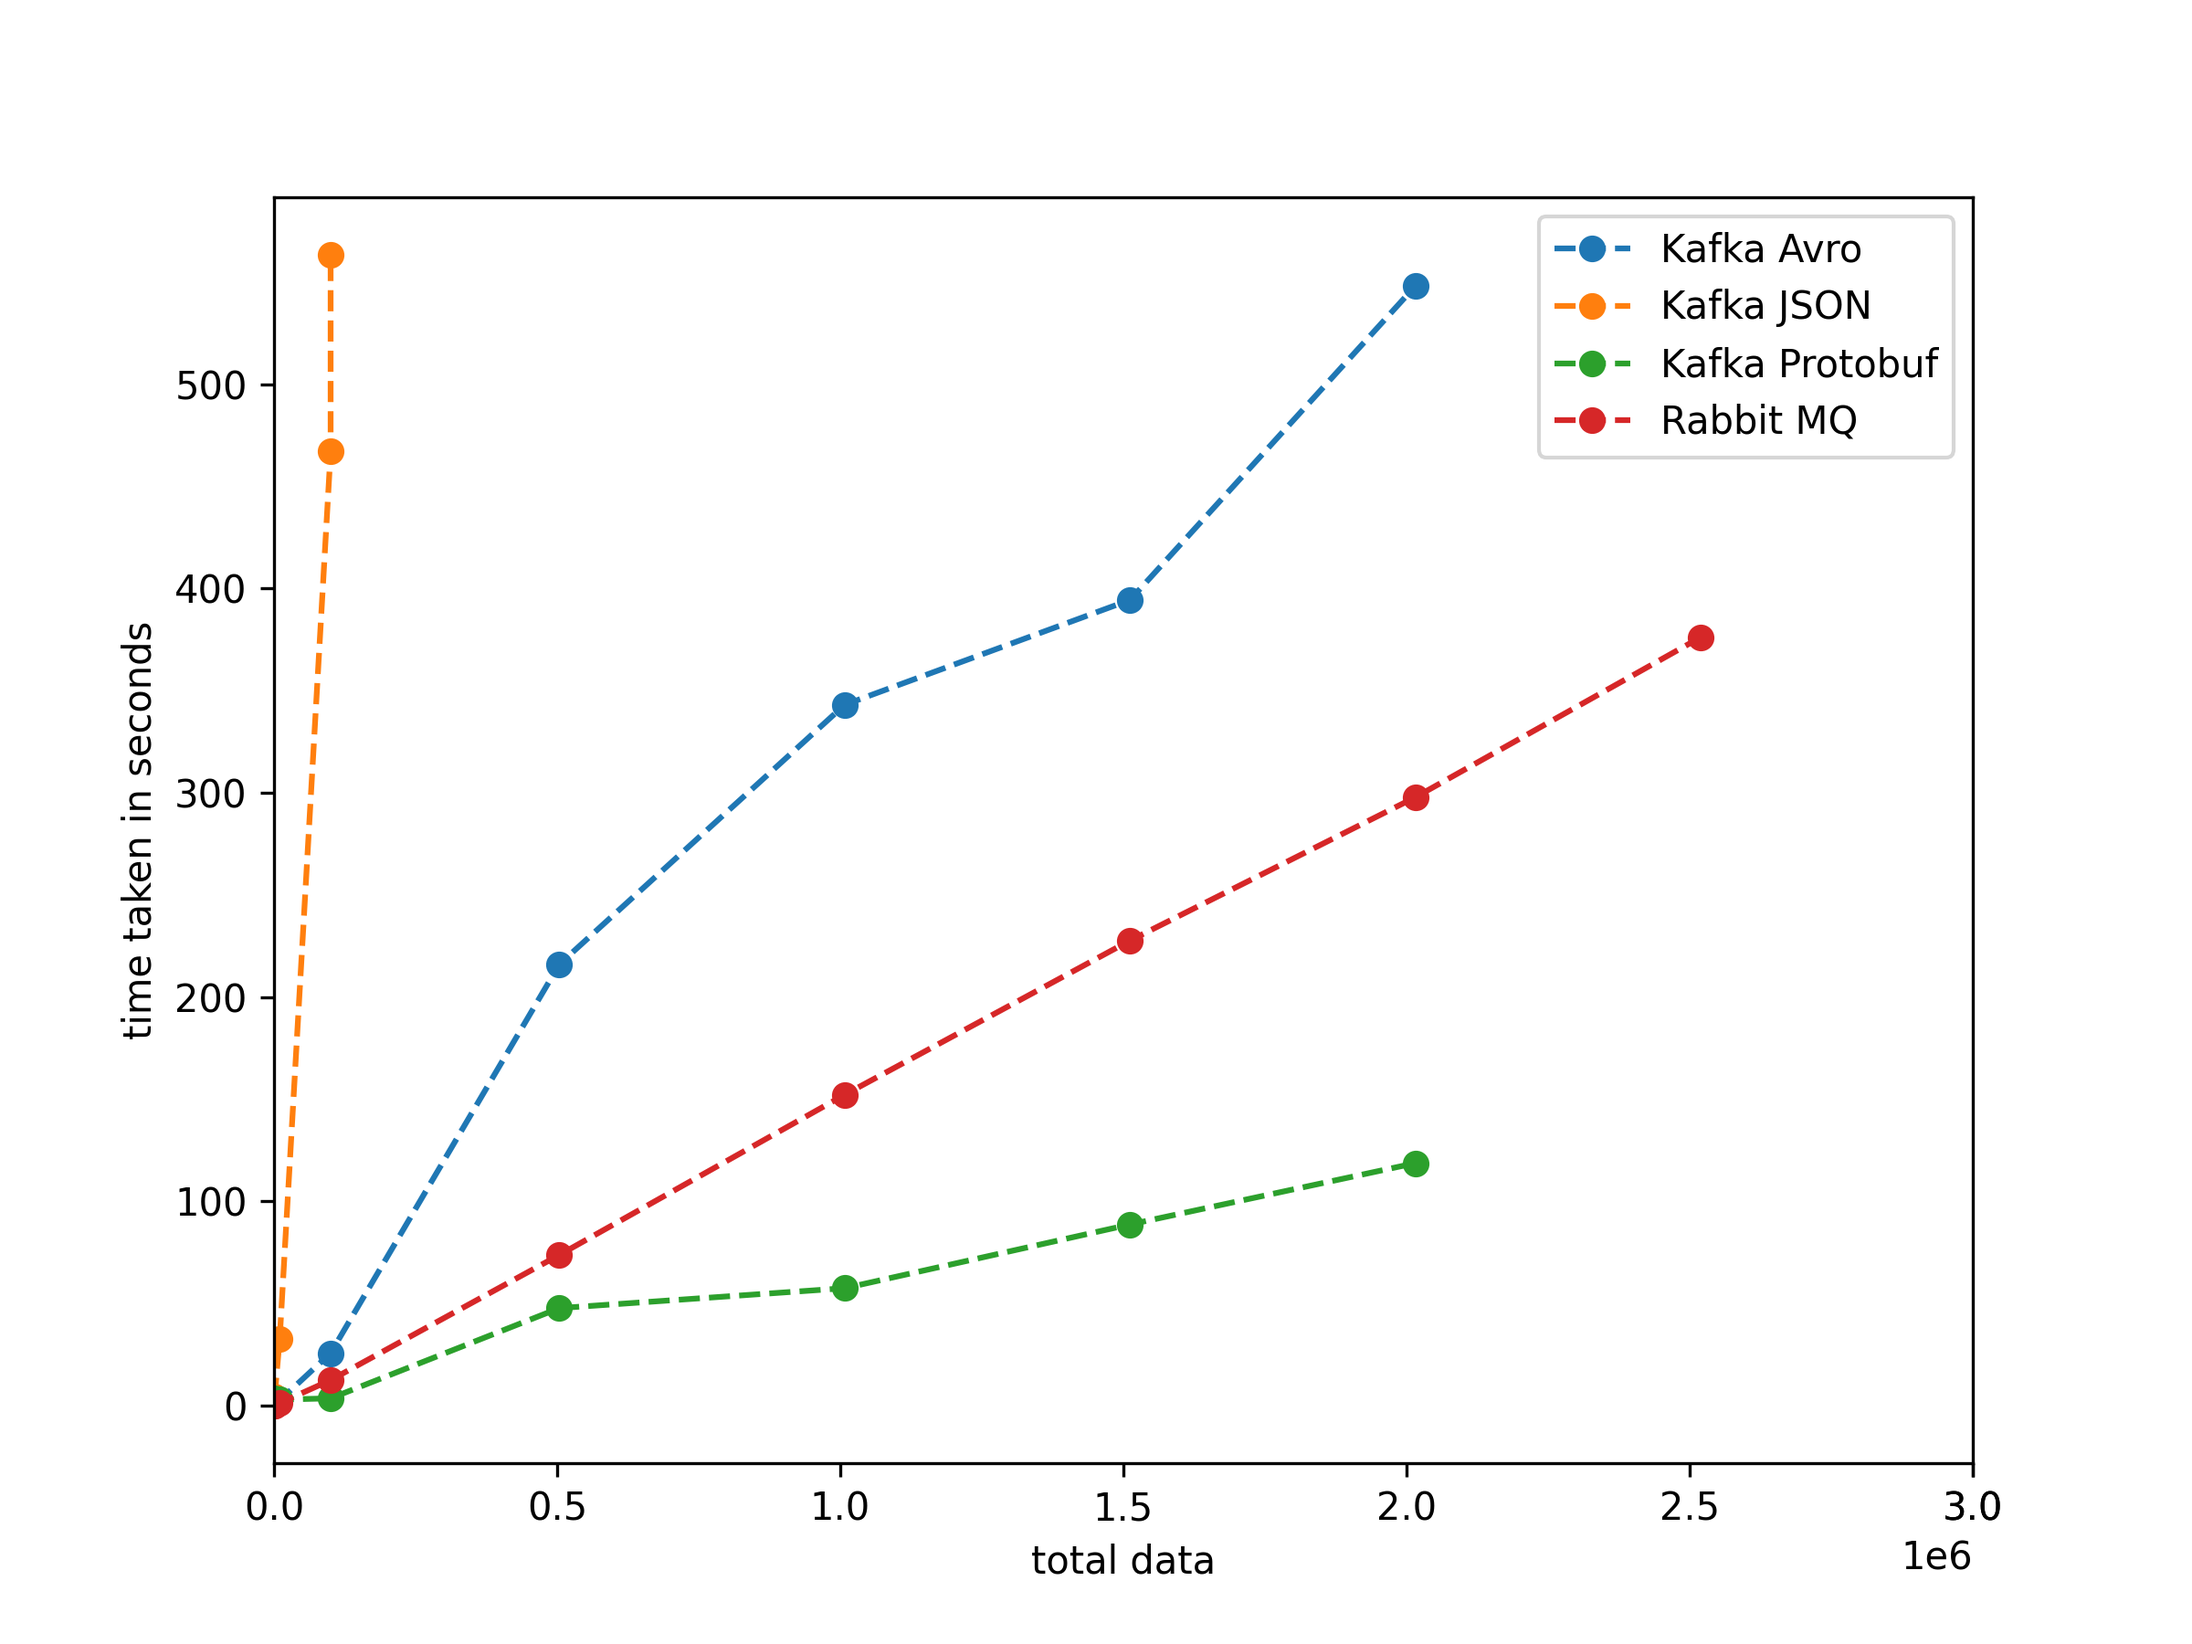
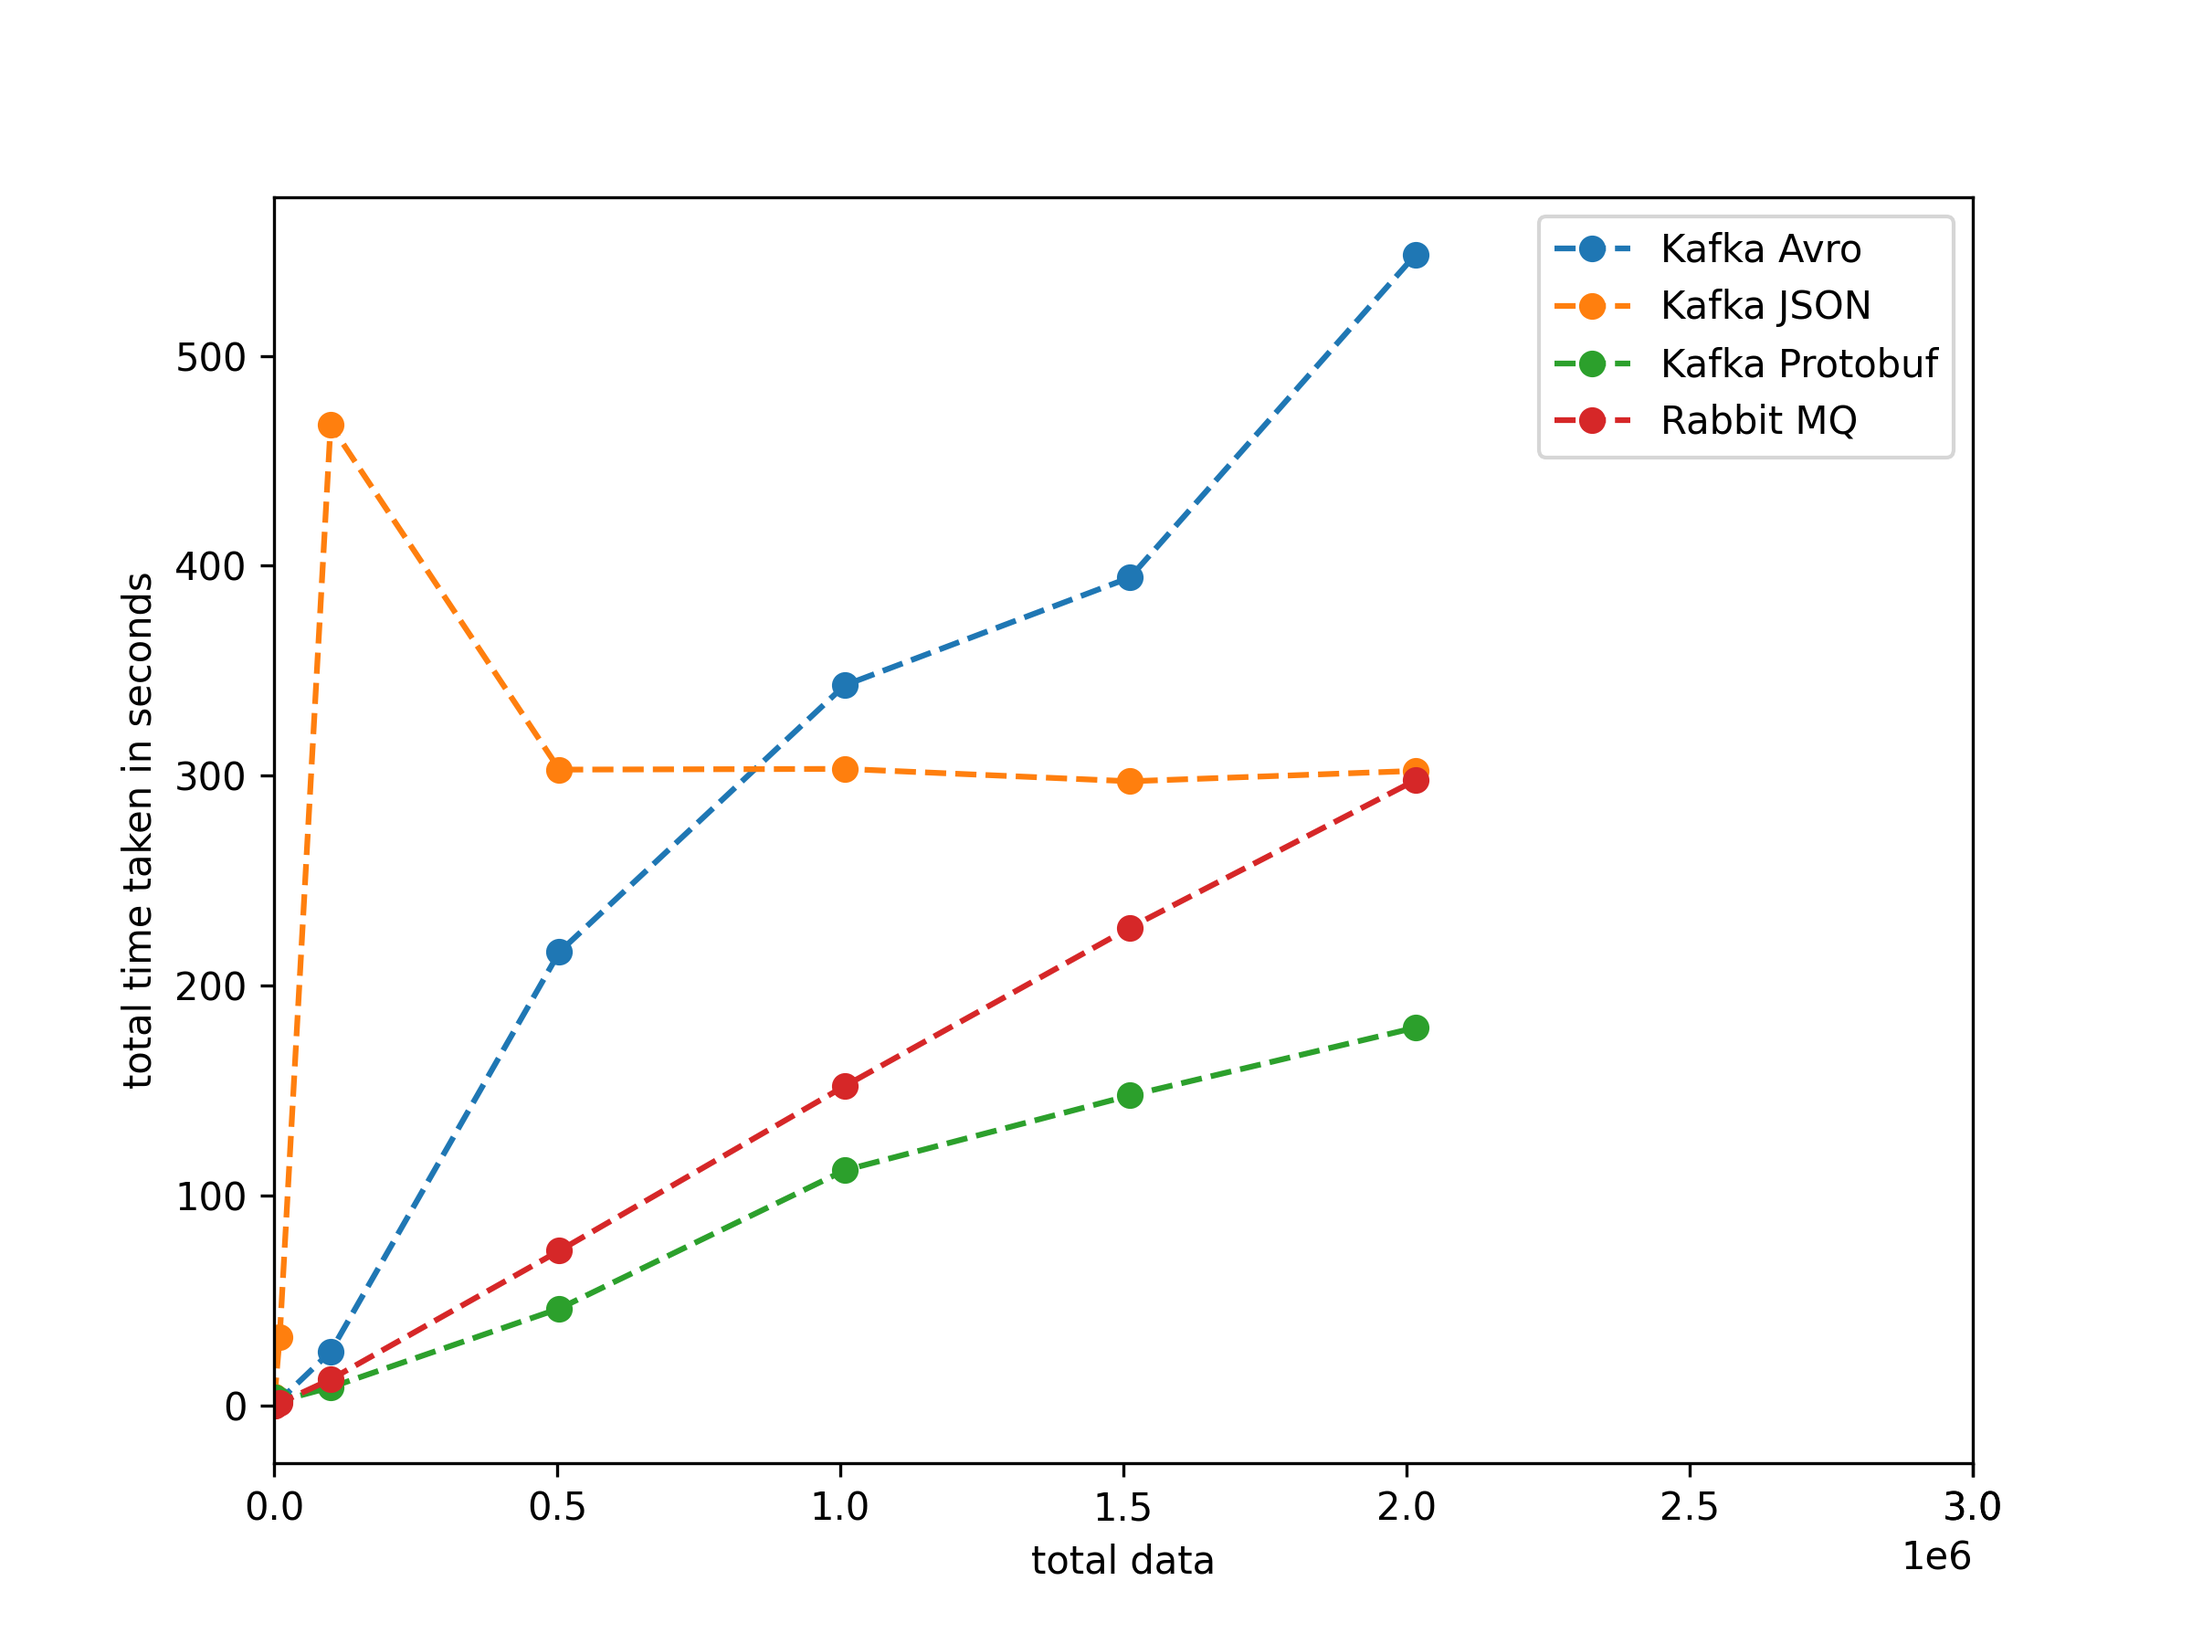
#updated data'

diff --git a/results.py b/results.py
@@ -8,26 +8,24 @@ protobuf_data = pd.read_csv("kafka_protobuf.csv")
 rabbit_mq_data = pd.read_csv("rabbit_mq.csv")
 
 plt1 = plt.figure(figsize=(8, 6), dpi=300)
-# plt.xlim([100,3000000])
-import pdb
-# pdb.set_trace()
+plt.xlim([100,3000000])
 # plt.tight_layout()
 # total_data,buffer_clear_count,actual_docs_per_second,overall_time_taken,buffer_clear_time,transfer_time_taken,overall_docs_per_second
-# plt.plot('total_data', 'overall_time_taken',  linestyle='--', marker='o',data=avro_data, label='Kafka Avro')
-plt.plot(np.linspace(0, 100, 25000),'overall_docs_per_second', linestyle='--', marker='o',data=avro_data, label="Kafka Avro Docs Per Second")
+plt.plot('total_data', 'overall_time_taken',  linestyle='--', marker='o',data=avro_data, label='Kafka Avro')
+# plt.plot(np.linspace(0, 100, 25000),'overall_docs_per_second', linestyle='--', marker='o',data=avro_data, label="Kafka Avro Docs Per Second")
 
 
-# plt.plot('total_data', 'overall_time_taken',  linestyle='--', marker='o',data=json_data, label='Kafka JSON')
-plt.plot(np.linspace(0, 100, 25000),'overall_docs_per_second', linestyle='--', marker='o',data=json_data, label="Kafka JSON Docs Per Second")
-# plt.plot('total_data', 'overall_time_taken',  linestyle='--', marker='o',data=protobuf_data, label="Kafka Protobuf")
-plt.plot(np.linspace(0, 100, 25000),'overall_docs_per_second', linestyle='--', marker='o',data=protobuf_data, label="Docs Kafka Protobuf Per Second")
-# plt.plot('total_data', 'overall_time_taken',  linestyle='--', marker='o',data=rabbit_mq_data, label="Rabbit MQ")
-plt.plot(np.linspace(0, 100, 25000),'overall_docs_per_second', linestyle='--', marker='o',data=rabbit_mq_data, label="Rabbit MQ Docs Per Second")
+plt.plot('total_data', 'overall_time_taken',  linestyle='--', marker='o',data=json_data, label='Kafka JSON')
+# plt.plot(np.linspace(0, 100, 25000),'overall_docs_per_second', linestyle='--', marker='o',data=json_data, label="Kafka JSON Docs Per Second")
+plt.plot('total_data', 'overall_time_taken',  linestyle='--', marker='o',data=protobuf_data, label="Kafka Protobuf")
+# plt.plot(np.linspace(0, 100, 25000),'overall_docs_per_second', linestyle='--', marker='o',data=protobuf_data, label="Docs Kafka Protobuf Per Second")
+plt.plot('total_data', 'overall_time_taken',  linestyle='--', marker='o',data=rabbit_mq_data, label="Rabbit MQ")
+# plt.plot(np.linspace(0, 100, 25000),'overall_docs_per_second', linestyle='--', marker='o',data=rabbit_mq_data, label="Rabbit MQ Docs Per Second")
 plt.legend()
 plt.xlabel("total data")
-plt.ylabel("documents per second")
+plt.ylabel("total time taken in seconds")
 plt.xticks(list(plt.xticks()[0]) + [3000000])
 
 # show graph
 plt.show()
-plt.savefig("result1.png")
+plt.savefig("result.png")

diff --git a/protobuf-producer.py b/protobuf-producer.py
@@ -1,39 +1,4 @@
-#!/usr/bin/env python
-# -*- coding: utf-8 -*-
-#
-# Copyright 2020 Confluent Inc.
-#
-# Licensed under the Apache License, Version 2.0 (the "License");
-# you may not use this file except in compliance with the License.
-# You may obtain a copy of the License at
-#
-# http://www.apache.org/licenses/LICENSE-2.0
-#
-# Unless required by applicable law or agreed to in writing, software
-# distributed under the License is distributed on an "AS IS" BASIS,
-# WITHOUT WARRANTIES OR CONDITIONS OF ANY KIND, either express or implied.
-# See the License for the specific language governing permissions and
-# limitations under the License.
-#
-
-#
-# This is a simple example of the SerializingProducer using protobuf.
-#
-# To regenerate Protobuf classes you must first install the protobuf
-# compiler. Once installed you may call protoc directly or use make.
-#
-# See the protocol buffer docs for instructions on installing and using protoc.
-# https://developers.google.com/protocol-buffers/docs/pythontutorial
-#
-# After installing protoc execute the following command from the examples
-# directory to regenerate the user_pb2 module.
-# `make`
-#
-import argparse
 from uuid import uuid4
-
-
-# Protobuf generated class; resides at ./user_pb2.py
 import homeAutomation_pb2
 from confluent_kafka import SerializingProducer
 from confluent_kafka.serialization import StringSerializer
@@ -89,7 +54,8 @@ def main():
     buffer_clear_count=0
     for r in reader:
         data.append(r)
-    data = data+data+data+data
+    data = data+data
+    data = data+data
     from datetime import datetime
     
     from time import sleep
@@ -156,6 +122,7 @@ def main():
         "buffer_clear_time":buffer_clear_time,
         "transfer_time_taken":actual_time_taken,
         "overall_docs_per_second":len(data)/actual_time_taken,
+        "dataset_size":sys.getsizeof(data)
     }
     header=["total_data",
             "buffer_clear_count",

diff --git a/docs_per_sec.py b/docs_per_sec.py
@@ -1,0 +1,34 @@
+import pandas as pd
+import numpy as np
+import matplotlib.pyplot as plt
+
+avro_data = pd.read_csv("kafka_avro.csv")
+json_data = pd.read_csv("kafka_json.csv")
+protobuf_data = pd.read_csv("kafka_protobuf.csv") 
+rabbit_mq_data = pd.read_csv("rabbit_mq.csv")
+fig, ax = plt.subplots(1, 1, figsize=(12, 10), subplot_kw={'projection': '3d'})
+
+# convenience wrapper for plotting function
+def plot_3d(df, label):
+    ax.plot(df.total_data, df.overall_time_taken, df.overall_docs_per_second, label=label, marker="o")
+# reshape with melt(), then plot
+# plot_3d(pd.melt(avro_data, id_vars='total_data', var_name='overall_time_taken', value_name='overall_docs_per_second'))
+# plot_3d(pd.melt(json_data, id_vars='total_data', var_name='overall_time_taken', value_name='overall_docs_per_second'))
+# plot_3d(pd.melt(protobuf_data, id_vars='total_data', var_name='overall_time_taken', value_name='overall_docs_per_second'))
+# plot_3d(pd.melt(rabbit_mq_data, id_vars='total_data', var_name='overall_time_taken', value_name='overall_docs_per_second'))
+plot_3d(avro_data, "Kafka Avro")
+plot_3d(json_data, "Kafka JSON")
+plot_3d(protobuf_data, "Kafka Protobuf")
+plot_3d(rabbit_mq_data, "RabbitMQ")
+
+# label axes
+ax.set_xlabel('Data')
+ax.set_ylabel('Time Taken in seconds')
+ax.set_zlabel('Documents per second')
+
+# optional view configurations
+ax.elev = 10
+ax.axim = 40
+plt.legend()
+plt.show()
+plt.savefig("3d.png")

diff --git a/json-producer-kafka.py b/json-producer-kafka.py
@@ -196,7 +196,7 @@ def main():
     buffer_clear_count=0
     for r in reader:
         data.append(r)
-    data = data[:100000]
+    data = data[:100]
     print("starting")
     from datetime import datetime
     
